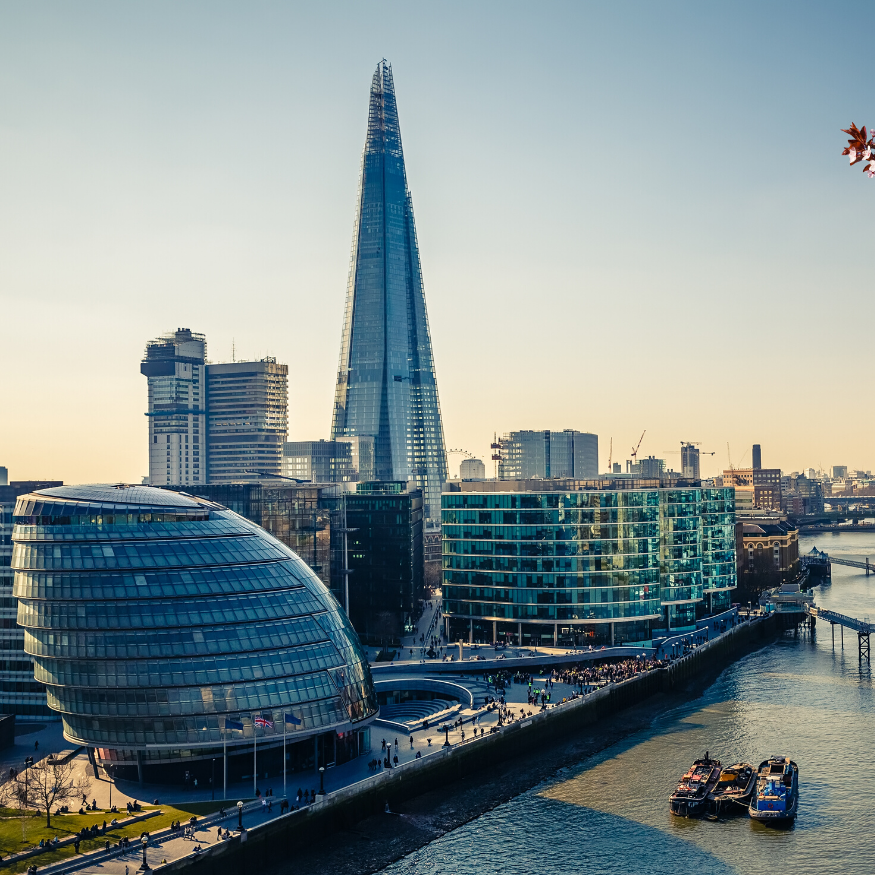
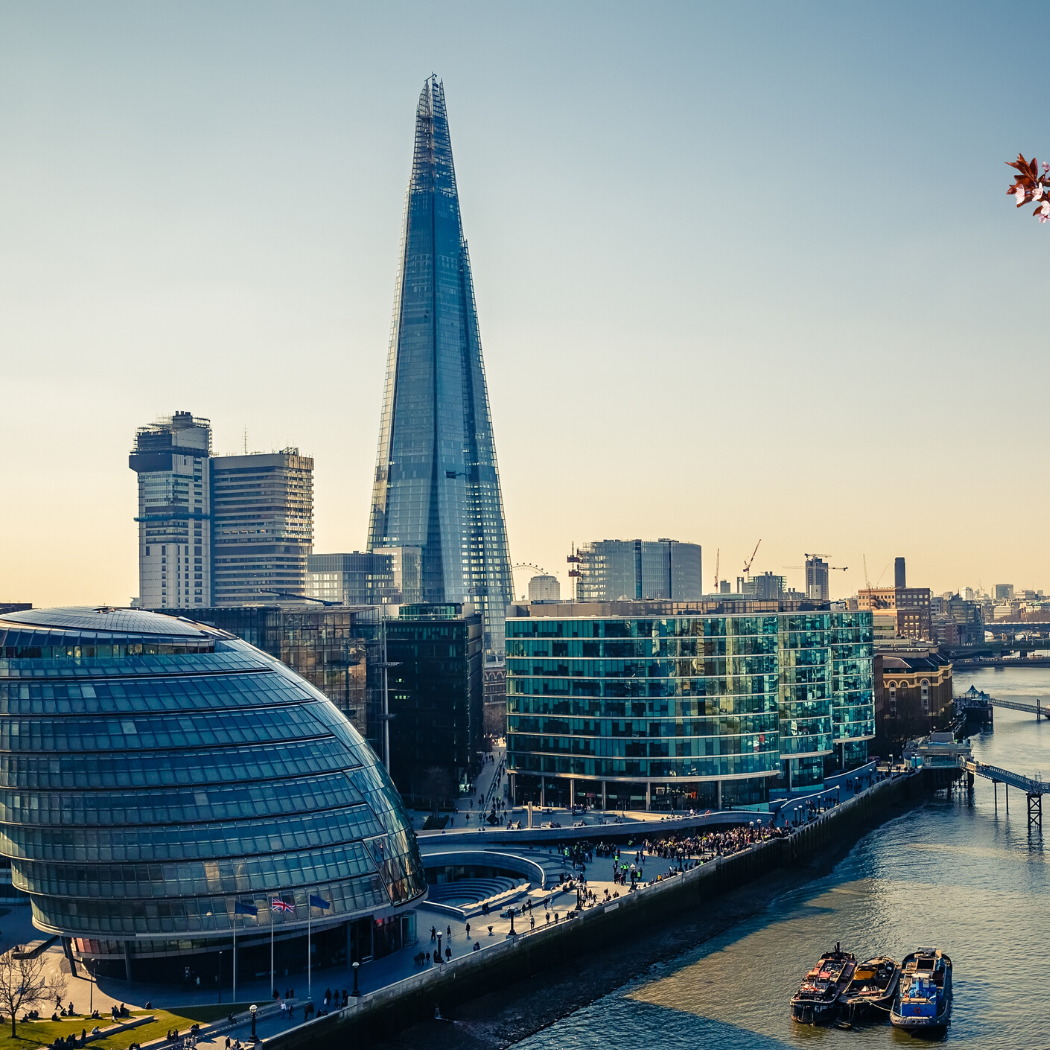
Changes
Home page higher res images
About page higher res images
Contact page banner and higher res images
Recipes page hyperlinks
Nav bar updated with smoothie names and hyperlinks

diff --git a/recipes.html b/recipes.html
@@ -29,8 +29,9 @@
       </a>
       <div class="dropdown-menu" aria-labelledby="navbarDropdownMenuLink" id="navbarDropdownMenuItem">
         <a class="dropdown-item" href="recipes.html">All Recipes</a>
-        <a class="dropdown-item" href="#">Smoothie 1</a>
-        <a class="dropdown-item" href="#">Smoothie 2</a>
+        <a class="dropdown-item" href="recipes.html#greenteam">Green Team</a>
+        <a class="dropdown-item" href="recipes.html#blueberrypower">Blueberry Power</a>
+        <a class="dropdown-item" href="recipes.html#supersun">Super Sun</a>
       </div>
     </li>
     <li class="nav-item">
@@ -66,7 +67,7 @@
     <img class="recipeimage" src="greenteam.jpg">
   </div>
   <div class="col-9">
-    <h2>Green Team</h2>
+    <h2 id="greenteam">Green Team</h2>
     <p>Prep: 10min > Ready in: 10min</p>
     <ul>
       <li>20g pinapple chunks</li>
@@ -92,7 +93,7 @@
     <img class="recipeimage" src="blueberrysmoothierecipe.jpg">
   </div>
   <div class="col-9">
-    <h2>Blueberry Power</h2>
+    <h2 id="blueberrypower">Blueberry Power</h2>
     <p>Prep: 5min > Ready in: 7min</p>
     <ul>
       <li>1 frozen banana</li>
@@ -117,7 +118,7 @@
     <img class="recipeimage" src="supersun.jpg">
   </div>
   <div class="col-9">
-    <h2>Super Sun</h2>
+    <h2 id="supersun">Super Sun</h2>
     <p>Prep: 5min > Ready in: 8min</p>
     <ul>
       <li>20g pinapple chunks</li>

diff --git a/contact.html b/contact.html
@@ -29,8 +29,9 @@
       </a>
       <div class="dropdown-menu" aria-labelledby="navbarDropdownMenuLink" id="navbarDropdownMenuItem">
         <a class="dropdown-item" href="recipes.html">All Recipes</a>
-        <a class="dropdown-item" href="#">Smoothie 1</a>
-        <a class="dropdown-item" href="#">Smoothie 2</a>
+        <a class="dropdown-item" href="recipes.html#greenteam">Green Team</a>
+        <a class="dropdown-item" href="recipes.html#blueberrypower">Blueberry Power</a>
+        <a class="dropdown-item" href="recipes.html#supersun">Super Sun</a>
       </div>
     </li>
     <li class="nav-item">
@@ -40,21 +41,28 @@
     </nav> 
   </div>
 
+  <!-- Banner -->
+  <div id="containerbanner">
+    <img src="contactus.png" alt="banner" style="width:100%;">
+    <div id="centeredbannertext"> Contact Us</div>
+  </div>
+
+
 <br>
 <br>
 
-<!-- Contact Us -->
-<div class="row">
+<!-- Contact Us deactivated by shida -->
+<!-- <div class="row">
   <div class="col-12">
     <h1 class="contactintro">Contact Us</h1>
   </div>
 </div>
 <br>
-<br>
+<br> -->
 <!-- contact page image -->
   <div class="row contact">
     <div class="col-6">
-      <img class="imagecontactpage" src="contactpromptphoto.png">
+      <img class="imagecontactpage" src="contactussideimage.png">
     </div>
 
 <!-- contact form -->

diff --git a/index.html b/index.html
@@ -32,8 +32,9 @@
       </a>
       <div class="dropdown-menu" aria-labelledby="navbarDropdownMenuLink" id="navbarDropdownMenuItem">
         <a class="dropdown-item" href="recipes.html">All Recipes</a>
-        <a class="dropdown-item" href="#">Smoothie 1</a>
-        <a class="dropdown-item" href="#">Smoothie 2</a>
+        <a class="dropdown-item" href="recipes.html#greenteam">Green Team</a>
+        <a class="dropdown-item" href="recipes.html#blueberrypower">Blueberry Power</a>
+        <a class="dropdown-item" href="recipes.html#supersun">Super Sun</a>
       </div>
     </li>
     <li class="nav-item">
@@ -97,7 +98,7 @@
     <img id="article1" src="blueberry.png" alt="blueberrysmoothie">
   </div>
   <div class="col-3">
-      <h2 id="blueberryheader"><a class="articlelink" href="recipes.html">Blueberry <br> Power</a></h2>
+      <h2 id="blueberryheader"><a class="articlelink" href="recipes.html#blueberrypower">Blueberry <br> Power</a></h2>
       <p id="blueberrybody">Find out how this antioxidant packed guilt-free treat is made by checking out our fool-proof recipe!</p>
   </div>
   <div class="col-3">

diff --git a/aboutus.html b/aboutus.html
@@ -29,8 +29,9 @@
       </a>
       <div class="dropdown-menu" aria-labelledby="navbarDropdownMenuLink" id="navbarDropdownMenuItem">
         <a class="dropdown-item" href="recipes.html">All Recipes</a>
-        <a class="dropdown-item" href="#">Smoothie 1</a>
-        <a class="dropdown-item" href="#">Smoothie 2</a>
+        <a class="dropdown-item" href="recipes.html#greenteam">Green Team</a>
+        <a class="dropdown-item" href="recipes.html#blueberrypower">Blueberry Power</a>
+        <a class="dropdown-item" href="recipes.html#supersun">Super Sun</a>
       </div>
     </li>
     <li class="nav-item">
